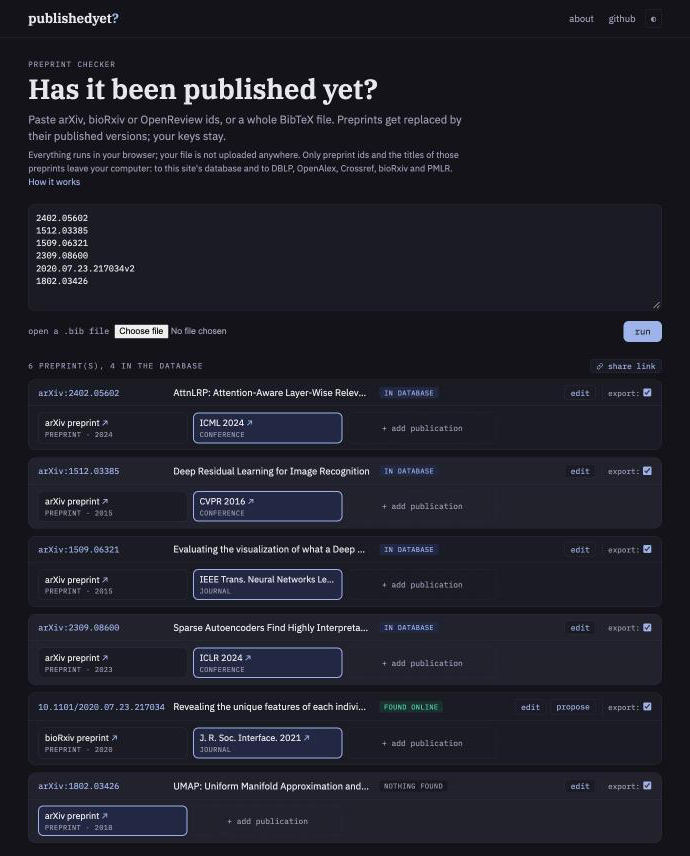
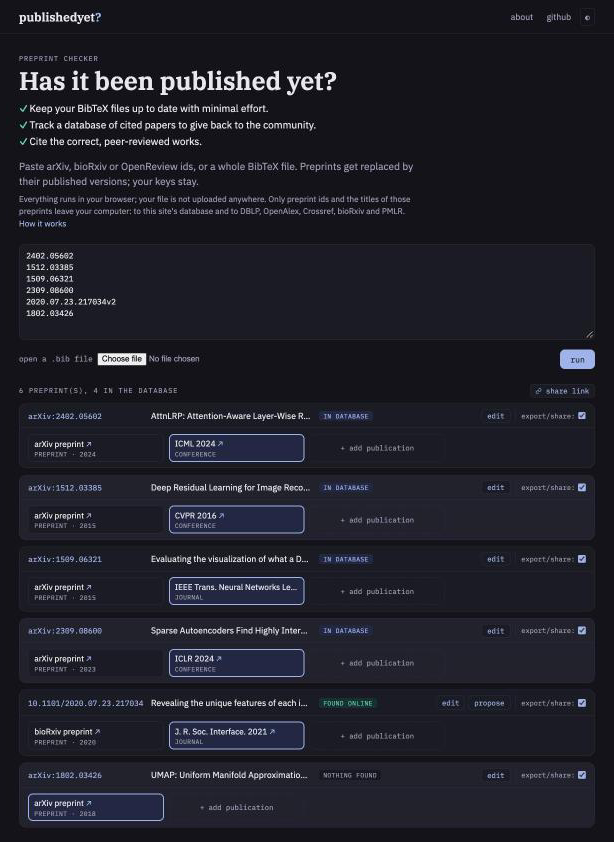
README: screenshots of the current page (light and dark)

diff --git a/README.md b/README.md
@@ -16,7 +16,7 @@ The page: <https://sebastian-lapuschkin-sideprojects.github.io/publishedyet/>
 
 <picture>
   <source media="(prefers-color-scheme: dark)" srcset="docs/screenshot-dark.png">
-  <img alt="The page with six preprint ids: four found in the database, one found online, one without a published version" src="docs/screenshot.png" width="690">
+  <img alt="The page with six preprint ids: four found in the database, one found online, one without a published version" src="docs/screenshot.png" width="614">
 </picture>
 
 ## How this came about
